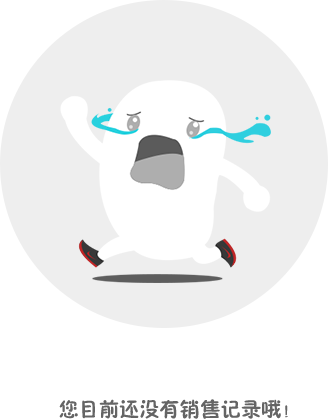
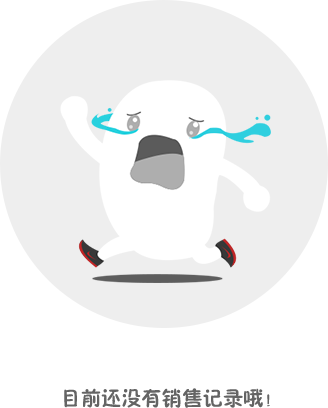
修复bug： 1、支付宝支付 2、首页bug修复 3、首页加载优化 4、详情页无销售记录图片更新

diff --git a/vstock-web/src/main/java/com/vstock/front/controller/IndexController.java b/vstock-web/src/main/java/com/vstock/front/controller/IndexController.java
@@ -46,25 +46,19 @@ public class IndexController extends BaseController {
         List<Bid> sellBidList = bidService.findNewAll(bid, lagePage);
         bid.setType("1");
         List<Bid> buyBidList = bidService.findNewAll(bid, lagePage);
-        List<Basicinformation> bList = basicinformationService.findByType(-1);
-        //爆款推荐
         List<Basicinformation> baolist = basicinformationService.findByBao(1);
-        //最低卖价 & 最高叫价
         List<Basicinformation> miniMoneyList = basicinformationService.findByType(2);
         List<Basicinformation> heightMoneyList = basicinformationService.findByType(3);
         List<Basicinformation> bigRoseList = basicinformationService.findByType(4);
-        PricePeak p = new PricePeak();
-        p.setStatus(0);
+        List<Basicinformation> bList = basicinformationService.findByType(5);
         for (int i = 0; i < heightMoneyList.size(); i++) {
-            p.setBasicinformationId(Integer.parseInt(heightMoneyList.get(i).getId()));
-            List<PricePeak> prHight = pricePeakService.findByType(p, 1, lagePage);
-            p.setBasicinformationId(Integer.parseInt(miniMoneyList.get(i).getId()));
-            List<PricePeak> prMini = pricePeakService.findByType(p, 2, lagePage);
-            if (prHight.size() > 0) {
-                heightMoneyList.get(i).setCofferprice(prHight.get(0).getHighestBid().doubleValue());
+            PricePeak prHight = pricePeakService.getHighestAndlowest(Integer.parseInt(heightMoneyList.get(i).getId()),"", 1, lagePage);
+            PricePeak prMini = pricePeakService.getHighestAndlowest(Integer.parseInt(miniMoneyList.get(i).getId()),"", 2, lagePage);
+            if (prHight != null) {
+                heightMoneyList.get(i).setHighestBid(prHight.getHighestBid().doubleValue());
             }
-            if (prMini.size() > 0) {
-                miniMoneyList.get(i).setCofferprice(prMini.get(0).getMinimumSellingPrice().doubleValue());
+            if (prMini != null) {
+                miniMoneyList.get(i).setMinimumBid(prMini.getMinimumSellingPrice().doubleValue());
             }
         }
         //最大涨幅
@@ -78,7 +72,7 @@ public class IndexController extends BaseController {
                 bigRoseList.get(i).setCofferprices(brose.get(0).getPercentage_change().doubleValue() * 100);
             }
         }
-        Long bCount = basicinformationService.findCount();
+//        Long bCount = basicinformationService.findCount();
         modelMap.addAttribute("bList", bList);
         modelMap.addAttribute("baolist", baolist);
         modelMap.addAttribute("sellBidList", sellBidList);
@@ -86,7 +80,7 @@ public class IndexController extends BaseController {
         modelMap.addAttribute("heightMoneyList", heightMoneyList);
         modelMap.addAttribute("miniMoneyList", miniMoneyList);
         modelMap.addAttribute("bigRoseList", bigRoseList);
-        modelMap.addAttribute("bCount", bCount);
+//        modelMap.addAttribute("bCount", bCount);
         return "/index/index";
     }
 

diff --git a/vstock-db/src/main/java/com/vstock/db/entity/Basicinformation.java b/vstock-db/src/main/java/com/vstock/db/entity/Basicinformation.java
@@ -57,6 +57,8 @@ public class Basicinformation implements Serializable {
     private String state;
     private ResultData resultData;
     private Bid bid;
+    private Double highestBid;
+    private Double minimumBid;
 
     public Basicinformation(String id, String brand, String name, String artNo, int type, String colores, String csaledate, String esaledate, Double cofferprice, Double cofferprices, String bscofferprice, String eofferprice, String chineselogo, String chineselogos, String imgUrl, String smallImgUrl, String createtime, String state, ResultData ResultData, Bid bid) {
         this.id = id;
@@ -79,6 +81,22 @@ public class Basicinformation implements Serializable {
         this.state = state;
         this.resultData = ResultData;
         this.bid = bid;
+    }
+
+    public Double getMinimumBid() {
+        return minimumBid;
+    }
+
+    public void setMinimumBid(Double minimumBid) {
+        this.minimumBid = minimumBid;
+    }
+
+    public Double getHighestBid() {
+        return highestBid;
+    }
+
+    public void setHighestBid(Double highestBid) {
+        this.highestBid = highestBid;
     }
 
     public static long getSerialVersionUID() {

diff --git a/vstock-web/src/main/java/com/vstock/front/service/TradeService.java b/vstock-web/src/main/java/com/vstock/front/service/TradeService.java
@@ -121,7 +121,12 @@ public class TradeService {
      * @return
      */
     public int update(Trade record){
-        return tradeDao.update(record.getStatus(),record.getUpdateDate(),record.getId());
+        Trade t = new Trade();
+        t.setId(record.getId());
+        t.setStatus(record.getStatus());
+        t.setUpdateDate(record.getUpdateDate());
+        t.setBuysaleType(record.getBuysaleType());
+        return tradeDao.update(t);
     }
 
     public int updateAll(Trade record){return tradeDao.updateAll(record);}

diff --git a/vstock-web/src/main/java/com/vstock/front/controller/TradeController.java b/vstock-web/src/main/java/com/vstock/front/controller/TradeController.java
@@ -249,7 +249,7 @@ public class TradeController extends BaseController{
                     sort = 2;
                 }
                 PricePeak pricePeak = pricePeakService.getHighestAndlowest(trade.getBasicinformationId(),trade.getBftSize(),sort,lagePage);
-                if(pricePeak == null){
+                if(pricePeak != null){
                     updateTradeInfo(trade.getBidId(),trade.getTradeFreight(),pricePeak.getId(),type,tradeId);
                 }
             }

diff --git a/vstock-db/src/main/java/com/vstock/db/dao/ITradeDao.java b/vstock-db/src/main/java/com/vstock/db/dao/ITradeDao.java
@@ -34,7 +34,7 @@ public interface ITradeDao {
     int insert(Trade record);
 
     //修改数据
-    int update(@Param("status")int status, @Param("updateDate")String updateDate, @Param("id")Integer id);
+    int update(@Param("obj")Trade record);
 
     //修改所有
     int updateAll(Trade record);
